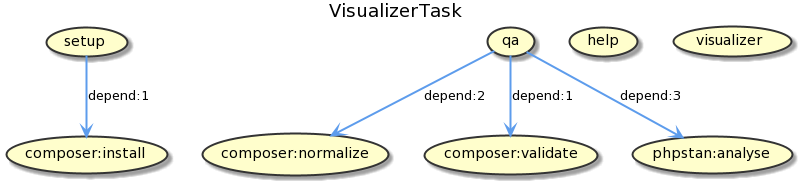
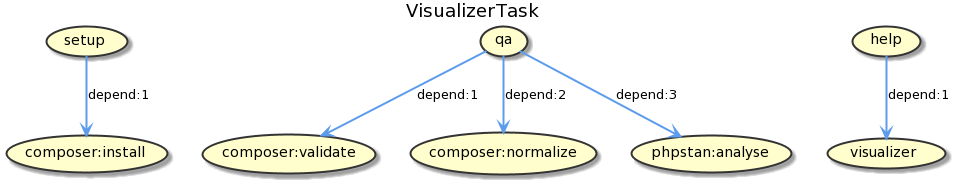
Links must be printed in order (#10)
* Print links first #4

* Print calls in order #4

* Fix phpstan complaints

* Update docblocks

diff --git a/src/VisualizerTask.php b/src/VisualizerTask.php
@@ -26,7 +26,13 @@ use Phing\Io\FileReader;
 use Phing\Io\FileWriter;
 use Phing\Io\File;
 use Phing\Project;
+use Psr\Http\Message\ResponseInterface;
+use SimpleXMLElement;
+use XSLTProcessor;
+use function array_reduce;
 use function Jawira\PlantUml\encodep;
+use function reset;
+use function simplexml_load_string;
 
 /**
  * Class VisualizerTask
@@ -37,15 +43,15 @@ use function Jawira\PlantUml\encodep;
  */
 class VisualizerTask extends HttpTask
 {
-    public const FORMAT_EPS = 'eps';
-    public const FORMAT_PNG = 'png';
+    public const FORMAT_EPS  = 'eps';
+    public const FORMAT_PNG  = 'png';
     public const FORMAT_PUML = 'puml';
-    public const FORMAT_SVG = 'svg';
-    public const SERVER = 'http://www.plantuml.com/plantuml';
-    public const STATUS_OK = 200;
-    public const XSL_CALLS = __DIR__ . '/calls.xsl';
-    public const XSL_FOOTER = __DIR__ . '/footer.xsl';
-    public const XSL_HEADER = __DIR__ . '/header.xsl';
+    public const FORMAT_SVG  = 'svg';
+    public const SERVER      = 'http://www.plantuml.com/plantuml';
+    public const STATUS_OK   = 200;
+    public const XSL_CALLS   = __DIR__ . '/calls.xsl';
+    public const XSL_FOOTER  = __DIR__ . '/footer.xsl';
+    public const XSL_HEADER  = __DIR__ . '/header.xsl';
     public const XSL_TARGETS = __DIR__ . '/targets.xsl';
 
     /**
@@ -54,7 +60,7 @@ class VisualizerTask extends HttpTask
     protected $format;
 
     /**
-     * @var string Location in disk where diagram is saved
+     * @var null|string Location in disk where diagram is saved
      */
     protected $destination;
 
@@ -72,10 +78,10 @@ class VisualizerTask extends HttpTask
         if (!function_exists('\Jawira\PlantUml\encodep')) {
             $exceptionMessage = get_class($this) . ' requires "jawira/plantuml-encoding" library';
         }
-        if (!class_exists(\XSLTProcessor::class)) {
+        if (!class_exists(XSLTProcessor::class)) {
             $exceptionMessage = get_class($this) . ' requires XSL extension';
         }
-        if (!class_exists(\SimpleXMLElement::class)) {
+        if (!class_exists(SimpleXMLElement::class)) {
             $exceptionMessage = get_class($this) . ' requires SimpleXML extension';
         }
         if (isset($exceptionMessage)) {
@@ -96,8 +102,8 @@ class VisualizerTask extends HttpTask
     {
         $pumlDiagram = $this->generatePumlDiagram();
         $destination = $this->resolveImageDestination();
-        $format = $this->getFormat();
-        $image = $this->generateImage($pumlDiagram, $format);
+        $format      = $this->getFormat();
+        $image       = $this->generateImage($pumlDiagram, $format);
         $this->saveToFile($image, $destination);
     }
 
@@ -111,8 +117,8 @@ class VisualizerTask extends HttpTask
         /**
          * @var \Phing\Parser\XmlContext $xmlContext
          */
-        $xmlContext = $this->getProject()
-            ->getReference("phing.parsing.context");
+        $xmlContext  = $this->getProject()
+                            ->getReference("phing.parsing.context");
         $importStack = $xmlContext->getImportStack();
         return $this->generatePuml($importStack);
     }
@@ -126,20 +132,23 @@ class VisualizerTask extends HttpTask
      */
     protected function generatePuml(array $buildFiles): string
     {
-        $puml = $this->transformToPuml(reset($buildFiles), VisualizerTask::XSL_HEADER);
-
-        /**
-         * @var \Phing\Io\File $buildFile
-         */
-        foreach ($buildFiles as $buildFile) {
-            $puml .= $this->transformToPuml($buildFile, VisualizerTask::XSL_TARGETS);
+        if (!($firstBuildFile = reset($buildFiles))) {
+            $exceptionMessage = 'No buildfile to process';
+            $this->log($exceptionMessage, Project::MSG_ERR);
+            throw new BuildException($exceptionMessage);
         }
 
-        foreach ($buildFiles as $buildFile) {
-            $puml .= $this->transformToPuml($buildFile, VisualizerTask::XSL_CALLS);
-        }
+        $puml = $this->transformToPuml($firstBuildFile, VisualizerTask::XSL_HEADER);
 
-        $puml .= $this->transformToPuml(reset($buildFiles), VisualizerTask::XSL_FOOTER);
+        $puml = array_reduce($buildFiles, function (string $carry, File $buildFile) {
+            return $carry . $this->transformToPuml($buildFile, VisualizerTask::XSL_CALLS);
+        }, $puml);
+
+        $puml = array_reduce($buildFiles, function (string $carry, File $buildFile) {
+            return $carry . $this->transformToPuml($buildFile, VisualizerTask::XSL_TARGETS);
+        }, $puml);
+
+        $puml .= $this->transformToPuml($firstBuildFile, VisualizerTask::XSL_FOOTER);
 
         return $puml;
     }
@@ -148,16 +157,17 @@ class VisualizerTask extends HttpTask
      * Transforms buildfile using provided xsl file
      *
      * @param \Phing\Io\File $buildfile Path to buildfile
-     * @param string $xslFile XSLT file
+     * @param string         $xslFile   XSLT file
      *
      * @return string
+     * @throws \Phing\Io\IOException
      */
     protected function transformToPuml(File $buildfile, string $xslFile): string
     {
         $xml = $this->loadXmlFile($buildfile->getPath());
         $xsl = $this->loadXmlFile($xslFile);
 
-        $processor = new \XSLTProcessor();
+        $processor = new XSLTProcessor();
         $processor->importStylesheet($xsl);
 
         return $processor->transformToXml($xml) . PHP_EOL;
@@ -169,16 +179,17 @@ class VisualizerTask extends HttpTask
      * @param string $xmlFile XML or XSLT file
      *
      * @return \SimpleXMLElement
+     * @throws \Phing\Io\IOException
      */
-    protected function loadXmlFile(string $xmlFile): \SimpleXMLElement
+    protected function loadXmlFile(string $xmlFile): SimpleXMLElement
     {
         $xmlContent = (new FileReader($xmlFile))->read();
-        $xml = simplexml_load_string($xmlContent);
+        $xml        = simplexml_load_string($xmlContent);
 
-        if (!($xml instanceof \SimpleXMLElement)) {
-            $message = "Error loading XML file: $xmlFile";
-            $this->log($message, Project::MSG_ERR);
-            throw new BuildException($message);
+        if (!($xml instanceof SimpleXMLElement)) {
+            $exceptionMessage = "Error loading XML file: $xmlFile";
+            $this->log($exceptionMessage, Project::MSG_ERR);
+            throw new BuildException($exceptionMessage);
         }
 
         return $xml;
@@ -193,9 +204,9 @@ class VisualizerTask extends HttpTask
     protected function resolveImageDestination(): File
     {
         $phingFile = $this->getProject()->getProperty('phing.file');
-        $format = $this->getFormat();
+        $format    = $this->getFormat();
         $candidate = $this->getDestination();
-        $path = $this->resolveDestination($phingFile, $format, $candidate);
+        $path      = $this->resolveDestination($phingFile, $format, $candidate);
 
         return new File($path);
     }
@@ -213,7 +224,7 @@ class VisualizerTask extends HttpTask
      *
      * @param string $format
      *
-     * @return VisualizerTask
+     * @return \Phing\Task\Ext\VisualizerTask
      */
     public function setFormat(string $format): VisualizerTask
     {
@@ -225,10 +236,9 @@ class VisualizerTask extends HttpTask
                 $this->format = $format;
                 break;
             default:
-                $message = "'$format' is not a valid format";
-                $this->log($message, Project::MSG_ERR);
-                throw new BuildException($message);
-                break;
+                $exceptionMessage = "'$format' is not a valid format";
+                $this->log($exceptionMessage, Project::MSG_ERR);
+                throw new BuildException($exceptionMessage);
         }
 
         return $this;
@@ -243,9 +253,9 @@ class VisualizerTask extends HttpTask
     }
 
     /**
-     * @param string $destination
+     * @param null|string $destination
      *
-     * @return VisualizerTask
+     * @return \Phing\Task\Ext\VisualizerTask
      */
     public function setDestination(?string $destination): VisualizerTask
     {
@@ -257,9 +267,9 @@ class VisualizerTask extends HttpTask
     /**
      * Figure diagram's file path
      *
-     * @param string $buildfilePath Path to main buildfile
-     * @param string $format Extension to use
-     * @param null|string $destination Desired destination provided by user
+     * @param string      $buildfilePath Path to main buildfile
+     * @param string      $format        Extension to use
+     * @param null|string $destination   Desired destination provided by user
      *
      * @return string
      */
@@ -279,9 +289,9 @@ class VisualizerTask extends HttpTask
 
         // Check if path is available
         if (!is_dir(dirname($destination))) {
-            $message = "Directory '$destination' is invalid";
-            $this->log($message, Project::MSG_ERR);
-            throw new BuildException(sprintf($message, $destination));
+            $exceptionMessage = "Directory '$destination' is invalid";
+            $this->log($exceptionMessage, Project::MSG_ERR);
+            throw new BuildException(sprintf($exceptionMessage, $destination));
         }
 
         return $destination;
@@ -304,7 +314,7 @@ class VisualizerTask extends HttpTask
             return $pumlDiagram;
         }
 
-        $format = $this->getFormat();
+        $format      = $this->getFormat();
         $encodedPuml = encodep($pumlDiagram);
         $this->prepareImageUrl($format, $encodedPuml);
 
@@ -327,9 +337,9 @@ class VisualizerTask extends HttpTask
 
         $server = filter_var($server, FILTER_VALIDATE_URL);
         if ($server === false) {
-            $message = 'Invalid PlantUml server';
-            $this->log($message, Project::MSG_ERR);
-            throw new BuildException($message);
+            $exceptionMessage = 'Invalid PlantUml server';
+            $this->log($exceptionMessage, Project::MSG_ERR);
+            throw new BuildException($exceptionMessage);
         }
 
         $imageUrl = sprintf('%s/%s/%s', rtrim($server, '/'), $format, $encodedPuml);
@@ -348,7 +358,7 @@ class VisualizerTask extends HttpTask
     /**
      * @param string $server
      *
-     * @return VisualizerTask
+     * @return \Phing\Task\Ext\VisualizerTask
      */
     public function setServer(string $server): VisualizerTask
     {
@@ -366,24 +376,24 @@ class VisualizerTask extends HttpTask
      *
      * @return void
      */
-    protected function processResponse(\Psr\Http\Message\ResponseInterface $response): void
+    protected function processResponse(ResponseInterface $response): void
     {
-        $status = $response->getStatusCode();
+        $status       = $response->getStatusCode();
         $reasonPhrase = $response->getReasonPhrase();
         $this->log("Response status: $status", Project::MSG_DEBUG);
         $this->log("Response reason: $reasonPhrase", Project::MSG_DEBUG);
 
         if ($status !== VisualizerTask::STATUS_OK) {
-            $message = "Request unsuccessful. Response from server: $status $reasonPhrase";
-            $this->log($message, Project::MSG_ERR);
-            throw new BuildException($message);
+            $exceptionMessage = "Request unsuccessful. Response from server: $status $reasonPhrase";
+            $this->log($exceptionMessage, Project::MSG_ERR);
+            throw new BuildException($exceptionMessage);
         }
     }
 
     /**
      * Save provided $content string into $destination file
      *
-     * @param string $content Content to save
+     * @param string         $content     Content to save
      * @param \Phing\Io\File $destination Location where $content is saved
      *
      * @return void

diff --git a/README.md b/README.md
@@ -12,8 +12,6 @@
 
 ## Documentation
 
-Phing User Guide:
-
 - [VisualizerTask documentation](https://www.phing.info/guide/chunkhtml/VisualizerTask.html)
 
 ## Examples
@@ -23,6 +21,17 @@ Phing User Guide:
 ![demo](resources/examples/edu-resource-center.png)
 ![demo](resources/examples/enom-pro.png)
 ![demo](resources/examples/bitpay-magento.png)
+
+## Requirements
+
+<dl>
+<dt>SimpleXML extension</dt>
+<dd><code>apt install php7.3-xml</code> <em># adapt acording to your PHP version</em></dd>
+<dt>XSL extension</dt>
+<dd><code>apt install php7.3-xsl</code> <em># adapt acording to your PHP version</em></dd>
+<dt>Guzzle</dt>
+<dd><code>composer require guzzlehttp/guzzle</code></dd>
+</dl>
 
 ## Contribute
 
